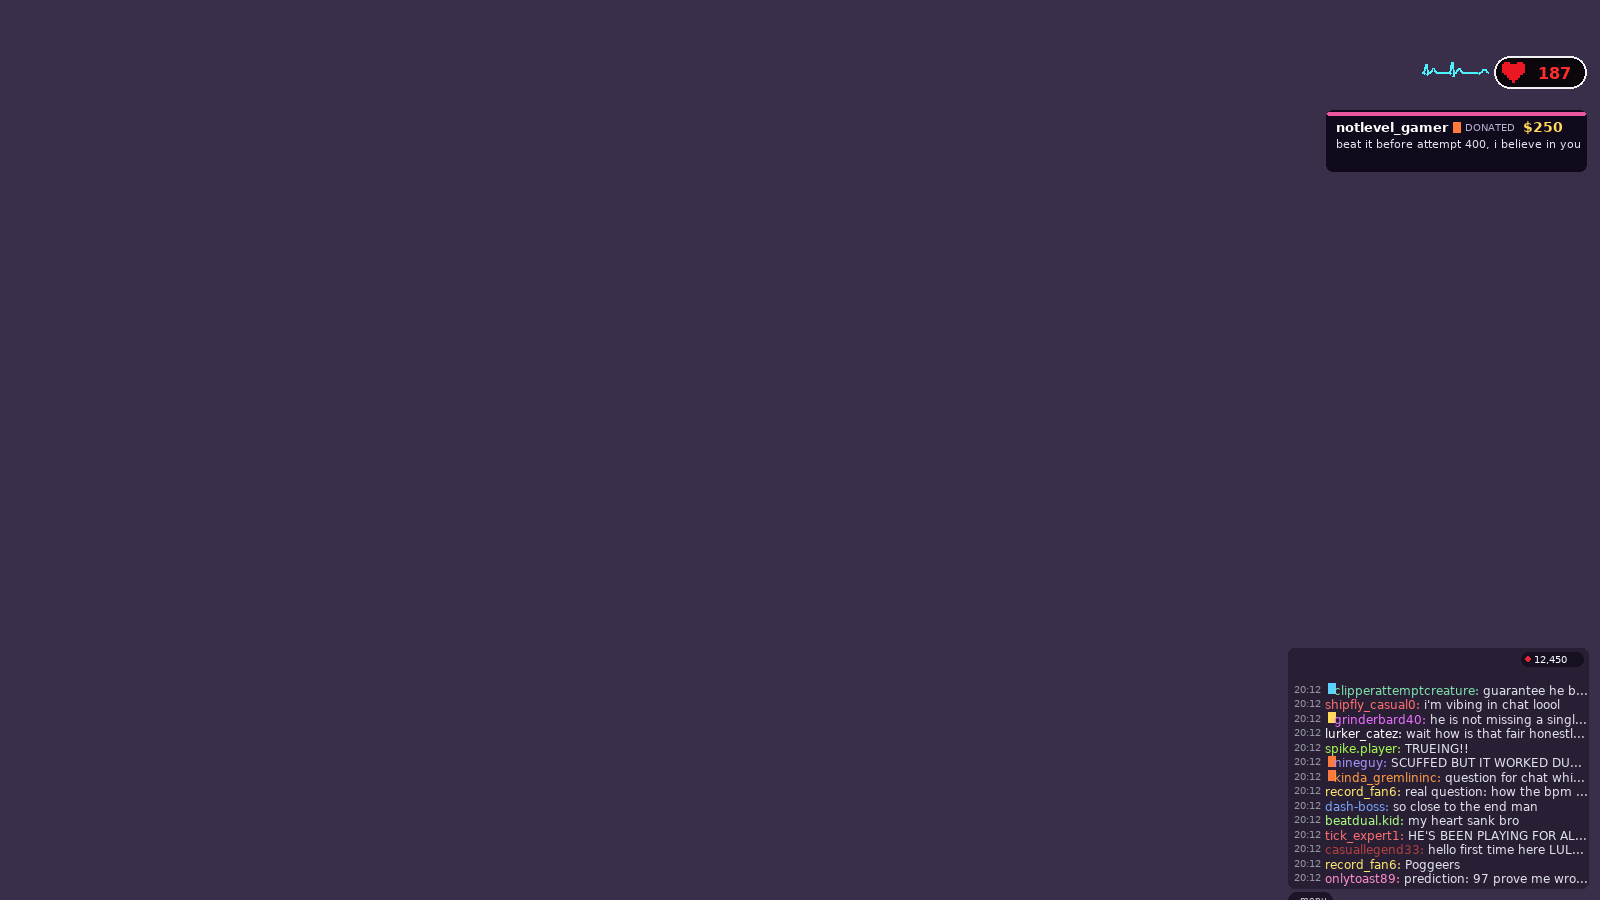
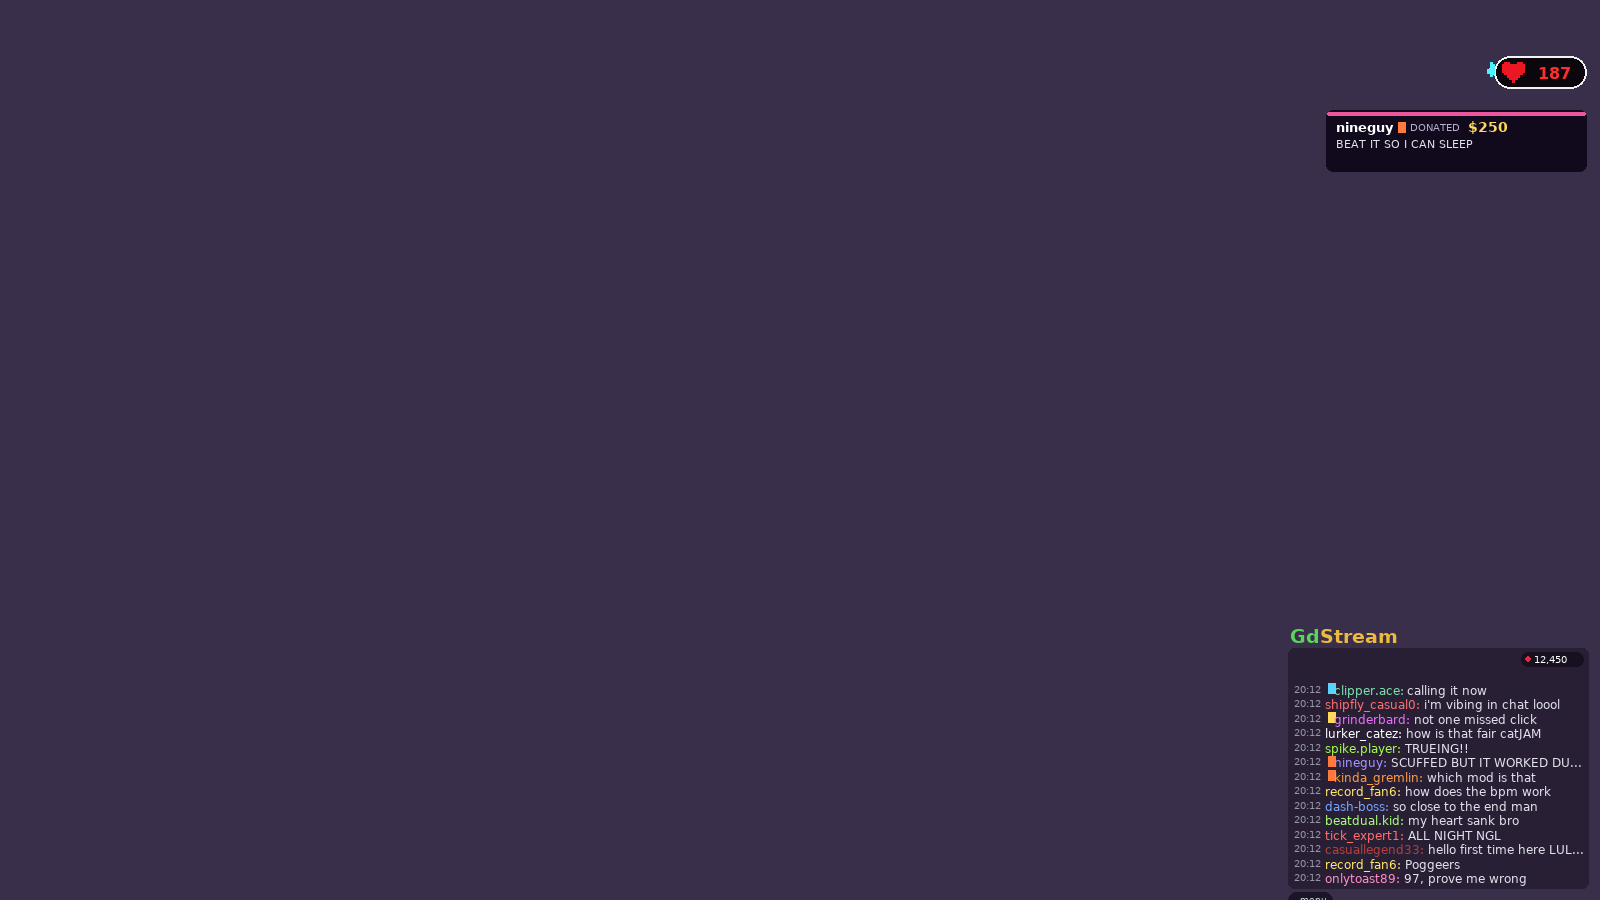
v3.3.5: the chat draws again (no stencil), and donations talk like a GD chat
- The row stack was inside a CCClippingNode. cocos2d-x draws a clipping
  node's stencil with the modelview matrix at identity, so a stencil built in
  the panel's local space cut at the bottom-left corner of the screen: every
  row was clipped away, which is why the panel showed nothing while the
  viewer pill (outside the clip) still drew. The clipping node is gone and
  overlong lines are truncated by measured width instead, which cannot fail
  that way.
- Donations: the wholesome register is gone. G_PUSH is now short and loud
  (GO / LOCK IN / MUGA / ABSOLUTE CINEMA / 97 / CLIP IT / I'M NOT BREATHING),
  the 'i believe in you' clauses are replaced, and half of all messages are
  upper-cased the way chat shouts.
- Every line that referenced the overlay, the chat panel, the bpm widget or
  anything being 'real' is deleted from both the chat and the donation pools.

diff --git a/src/stream_text.cpp b/src/stream_text.cpp
@@ -252,7 +252,6 @@ namespace streamui::text {
                 "what's your hardest", "what is your hardest demon",
                 "have you beaten bloodbath", "when's the next video",
                 "youtube upload when", "is there a vod",
-                "the chat overlay is clean", "how did you set up the overlay",
                 "what keyboard do you use", "mechanical keyboard asmr",
                 "i can hear every single click", "that clicking is satisfying",
                 "who's the mod in chat", "mods are asleep",
@@ -261,11 +260,7 @@ namespace streamui::text {
                 "attempt counter is at a scary number", "this attempt feels different",
                 "the level looks pretty", "the deco on this level goes hard",
                 "this part looks impossible", "that part is definitely impossible",
-                "the bar at the bottom is so satisfying", "i love the overlay",
-                "the layout is so clean today", "who made the overlay",
-                "is that a custom chat", "the colors on the chat are nice",
-                "my stream is nothing compared to this", "teach me how to edit like this",
-                "the thumbnail for this stream goes hard",
+                "the bar at the bottom is so satisfying", "that progress bar is crawling",
                 "i came from the youtube clip", "the clip brought me here",
                 "that clip of the 99 death is why i'm here",
             });
@@ -273,7 +268,7 @@ namespace streamui::text {
             cross(v, { "anyone know", "quick question,", "question for chat", "someone tell me" },
                 { " how the ship works", " how to get better at wave", " what the best level to start with is",
                     " how long this level is", " how many attempts that is", " what song this is",
-                    " what that counter is", " which mod does that", " what the bpm thing is" });
+                    " what that song is called", " which mod does that", " how many attempts he's on" });
 
             cross(v, { "i'm", "bro i'm", "honestly i'm", "not gonna lie i'm" },
                 { " so invested in this run", " nervous and i'm not even playing", " sweating watching this",
@@ -678,7 +673,6 @@ namespace streamui::text {
             putAll(fun, {
                 "do you think you'll die at 97 again?", "serious question: do you actually enjoy this level?",
                 "how do you still have hands after 3 hours?", "what's the plan if you never beat this",
-                "is the heart monitor real or are you just built like that",
                 "how many keyboards have you broken", "do you sleep or is that a myth",
                 "how do you not get angry, teach me", "what do you eat during a 6 hour session",
                 "be honest: how many attempts today",
@@ -703,26 +697,55 @@ namespace streamui::text {
                 { " stay this calm", " get this good at wave", " not break your keyboard",
                     " learn to straight fly", " start playing gd" });
 
+            // Donors in a GD chat are not a support group. They are the loudest people in the
+            // room: short, loud, certain, and taking the mickey. No "we believe in you" speeches.
             auto& push = b[G_PUSH];
             putAll(push, {
-                "you got this bro", "lock in, we believe", "i know you can do this",
-                "one day you'll look back at this and laugh",
-                "take a breath and run it back", "don't let the level win",
-                "you've come too far to stop now", "this is your level, finish it",
-                "chat is behind you 100%", "you're the most consistent player i watch",
-                "keep the same pace, it's working",
-                "your practice mode grind is going to pay off",
-                "every death is data, keep going",
-                "take a five minute break and come back stronger",
-                "you're so close, don't stop now", "we're all here with you",
-                "we believe in you", "you're going to get this today",
-                "this is the stream where it happens",
-                "you've already proven you can get there",
-                "just do what you did in practice mode",
-                "you're the reason i still watch gd streams",
-                "keep going king", "the grind will pay off, it always does",
-                "rest if you need, chat will wait",
-                "hydrate and lock back in", "stretch your hands and go again",
+                "$5 for the win, don't make me look stupid",
+                "GO GO GO GO GO", "LOCK IN", "LOCK IN CHAT", "CLUTCH IT", "DON'T CHOKE",
+                "TAKE IT HOME", "FINISH IT", "ONE MORE", "CLICK IT", "HOLD IT", "SEND IT",
+                "cooking. absolutely cooking", "he's cooking, everyone stay calm",
+                "BRO IS COOKING", "BRO IS LOCKED IN", "WE ARE SO BACK", "IT'S HAPPENING",
+                "ABSOLUTE CINEMA", "this is cinema", "no shot he chokes this",
+                "if you die here i'm refunding", "no pressure but everything is on this",
+                "i paid $20 to watch you click one block",
+                "do it for the clip", "clip it if he wins", "this is going in the compilation",
+                "don't you dare die at 99", "beat it so i can go to bed",
+                "i've bet my rent on this attempt", "my money is on the win, go",
+                "only donated to say GO", "donating every attempt until you win",
+                "go on then, prove the chat wrong",
+                "you've got one job", "it's one block. hit it",
+                "this attempt feels different, don't waste it",
+                "i'm not even watching, i'm just here for the reaction",
+                "send it chat, he needs the noise",
+                "all in on this run", "let's see it", "we're watching, do something",
+                "WAKE UP", "MUGA", "LETS GO CHAT", "CLEAN IT", "TAKE THE WIN",
+            });
+
+            // short and loud, the way people actually donate to a GD stream
+            putAll(b[G_PUSH], {
+                "GO GO GO GO GO GO", "NO WAY", "NO WAYYYY", "HOLY SHIT", "BRO IS COOKING",
+                "BRO IS ACTUALLY COOKING", "LOCK IN", "LOCK IN CHAT", "MUGA", "WE ARE SO BACK",
+                "WE ARE NEVER SO BACK", "ABSOLUTE CINEMA", "97", "97 AGAIN", "THE 97 CURSE",
+                "CLIP THAT", "CLIP IT", "DON'T CHOKE", "CHOKING INCOMING", "I CAN'T WATCH",
+                "I'M NOT BREATHING", "ONE CLICK", "ONE MORE", "PLEASE", "PLEASE GOD",
+                "FINISH IT", "SEND IT", "TAKE THE WIN", "HIT THE LAST BLOCK",
+                "IF YOU DIE HERE I'M DONE", "IF YOU WIN I'LL DONATE AGAIN",
+                "DO IT FOR THE COMPILATION", "BEAT IT SO I CAN SLEEP",
+                "I CAME HERE TO SEE A CHOKE", "PROVE ME WRONG", "PROVE CHAT WRONG",
+                "THAT'S THE RUN", "THAT'S THE ONE", "THIS IS THE ATTEMPT",
+                "LET'S GOOOOO", "LET'S GO CHAT", "WAKE UP CHAT", "STAY LOCKED IN",
+                "HE'S LOCKED IN", "HE'S COOKING", "KING", "WHAT A RUN",
+                "GOOD LUCK BRO", "GOOD LUCK", "WIN IT", "SMASH IT", "CLEAN IT",
+                "GG IF YOU WIN", "GG EITHER WAY", "I'M SHAKING", "MY HEART",
+                "DON'T THINK JUST CLICK", "TRUST YOUR HANDS", "SAME PACE",
+                "MOMENTUM", "KEEP THE RUN", "DON'T RESET", "PLAY IT OUT",
+                "SEND THE CLIP", "PUT IT ON YOUTUBE", "THIS IS CINEMA",
+                "BEST STREAM TODAY", "1 MORE ATTEMPT", "LAST ONE I PROMISE",
+                "OK NOW SERIOUSLY WIN", "GOOD LUCK ON THE LAST PART",
+                "NOT THE ENDING PLEASE", "THE ENDING IS CURSED",
+                "YOU HAD IT", "SO CLOSE", "PAIN", "ACTUAL PAIN",
+                "I FELT THAT", "THAT ONE HURT", "THAT WAS PERSONAL",
             });
 
             auto& pred = b[G_PREDICT];
@@ -804,18 +827,16 @@ namespace streamui::text {
                 "i'm downloading this level so i can hate it myself",
                 "the song in this level is so good",
                 "i've been here for 4 hours and i regret nothing",
-                "best stream on twitch right now, not even close",
-                "your overlay is cleaner than most big streamers",
-                "first time donating, love the stream",
-                "i've been watching since 20 viewers, insane growth",
-                "that heart rate thing is stressing me out more than you",
-                "the chat overlay makes this feel like a real event",
-                "this stream deserves 10x the viewers",
-                "i tell everyone about this stream",
-                "the highlight reel is going to be insane",
-                "your thumbnails are getting better every week",
-                "i came from the clip and i'm staying",
-                "this is the only stream i watch live",
+                "$10 says you die at 97 again",
+                "if you beat this i'll donate $50, and i know you won't",
+                "i'm only here for the choke and you keep not choking",
+                "donated so i can say i was here for the win",
+                "donated so i can say i was here for the choke, whichever",
+                "this is my fourth donation tonight, win something",
+                "i have donated more than you've gained percent",
+                "beat it and i'll stop donating. so don't.",
+                "5 dollars to tell you the ending is cursed",
+                "money is on 99. prove me wrong",
             });
         }
 
@@ -856,9 +877,8 @@ namespace streamui::text {
             static char const* ASK_HEADS[] = { "does anyone know ", "can someone tell me ", "seriously, ",
                 "real question: ", "chat, " };
             static char const* ASK_TAILS[] = { "how long this level is", "what his hardest is",
-                "how many attempts that was", "what the timer is counting", "if that's a real heart monitor",
-                "how the bpm thing works", "what the counter on the left is", "if he's ever beaten this",
-                "how many hours he's played today", "what the overlay is called", "if this is on youtube" };
+                "how many attempts that was", "what the timer is counting",
+                "how many hours he's played today", "which demon this is", "how far he's got before" };
             cross(b[C_NORMAL], ASK_HEADS, ASK_TAILS);
 
             static char const* SMALL_HEADS[] = { "hi ", "hey ", "hello ", "yo ", "morning ", "good luck " };
@@ -874,20 +894,20 @@ namespace streamui::text {
         }
 
         void buildClauseGifts(std::array<Lines, 16>& b) {
-            static char const* HEADS[] = { "i've been watching you for ", "i've been in this chat for ",
+            static char const* HEADS[] = { "i've been watching you die for ", "i've been in this chat for ",
                 "been here for ", "watching since " };
-            static char const* TAILS[] = { " three hours and this is the best stream i've seen",
-                " two months, you've improved so much", " the whole day, worth every minute",
-                " the beginning and this is unreal", " an hour and i'm fully invested",
-                " years, this community is special", " one stream and i already love it here" };
+            static char const* TAILS[] = { " three hours and you still can't do the last jump",
+                " two months and you're still at the same percent", " the whole day, absolute cinema",
+                " the beginning and you haven't improved once", " an hour and i've seen 40 deaths",
+                " years, the level always wins", " one stream and i already know how it ends" };
             cross(b[G_STREAM], HEADS, TAILS);
 
-            static char const* PUSH_HEADS[] = { "don't give up, ", "keep going, ", "you've got this, ",
-                "we believe in you, ", "take your time, " };
+            static char const* PUSH_HEADS[] = { "go on, ", "send it, ", "lock in, ", "clutch it, ", "one more, " };
             static char const* PUSH_TAILS[] = { "the level can't beat you forever",
-                "chat isn't going anywhere", "every attempt is progress",
-                "you're closer than you think", "the win is coming", "we'll be here when you get it",
-                "no rush, quality over speed", "we're all rooting for you" };
+                "chat is not going anywhere until you win", "every attempt is one closer to the choke",
+                "you're closer than you think and that's the problem", "the win is coming, probably",
+                "we'll be here when you die again", "no pressure, everything is on this",
+                "we're all screaming at you, in a nice way" };
             cross(b[G_PUSH], PUSH_HEADS, PUSH_TAILS);
 
             static char const* FUN_HEADS[] = { "honest question: ", "real question: ", "asking for a friend: ",
@@ -1097,19 +1117,19 @@ namespace streamui::text {
             for (int c = 0; c < G_COUNT; ++c) {
                 gbase[static_cast<size_t>(c)] = b[static_cast<size_t>(c)].size();
             }
-            expandFrom(b[G_PUSH], gbase[G_PUSH], { " you're going to get it", " chat is here for it",
+            expandFrom(b[G_PUSH], gbase[G_PUSH], { " do it for the clip", " and i mean it",
                 " keep the pace", " we believe", " after all this time", " no pressure" }, 3, 0);
             expandFrom(b[G_FUN], gbase[G_FUN], { "", " asking for a friend", " genuinely curious", " chat" }, 2, 1);
             expandFrom(b[G_JOKE], gbase[G_JOKE], { " and i stand by it", " not sorry", " honestly", " chat agrees" }, 2, 2);
             expandFrom(b[G_HIGH], gbase[G_HIGH], { " and i'm still not over it", " chat was unwell", " i needed a break" }, 2, 3);
             expandFrom(b[G_GD], gbase[G_GD], { " and that's a fact", " no notes", " respect", " trust me" }, 2, 4);
-            expandFrom(b[G_STREAM], gbase[G_STREAM], { "", " and i mean that", " best community on twitch" }, 2, 5);
+            expandFrom(b[G_STREAM], gbase[G_STREAM], { "", " and i mean that", " absolute cinema" }, 2, 5);
             expandFrom(b[G_PREDICT], gbase[G_PREDICT], { "", " prove me wrong", " i'll be here", " chat" }, 2, 6);
-            expandFrom(b[G_STREAM], gbase[G_STREAM], { " love this stream", " keep it up", " from a long time viewer" }, 1, 7);
+            expandFrom(b[G_STREAM], gbase[G_STREAM], { " unreal", " every time", " chat is right here" }, 1, 7);
             expandFrom(b[G_GD], gbase[G_GD], { " fact check me", " i said what i said", " gd 4 life" }, 1, 8);
             expandFrom(b[G_HIGH], gbase[G_HIGH], { " i'm not okay", " chat was not okay", " oh my god" }, 1, 9);
             expandFrom(b[G_JOKE], gbase[G_JOKE], { " and that's the truth", " sorry", " facts" }, 1, 10);
-            expandFrom(b[G_PUSH], gbase[G_PUSH], { " you've got this", " take your time", " we're not leaving" }, 1, 11);
+            expandFrom(b[G_PUSH], gbase[G_PUSH], { " GO", " now", " don't think about it" }, 1, 11);
             return finish(b, G_COUNT);
         }
 

diff --git a/src/stream.cpp b/src/stream.cpp
@@ -616,8 +616,7 @@ namespace streamui {
             CCNode* header = nullptr;             // optional "GdStream" wordmark above the panel
             CCLabelBMFont* headGd = nullptr;
             CCLabelBMFont* headStream = nullptr;
-            CCClippingNode* rowsHost = nullptr;   // clips the chat rows to the panel
-            CCDrawNode* rowStencil = nullptr;
+            CCNode* rowsHost = nullptr;   // parent of the row stack
             CCNode* chip = nullptr;        // small settings chip, shown while the menu is closed
             CCDrawNode* chipDraw = nullptr;
             std::function<void()> onChip = nullptr;
@@ -1031,13 +1030,12 @@ namespace streamui {
             // created here.
 
             // ---------------- chat rows ----------------
-            // One clipping node for the whole stack (not one per row: 110 stencils is a lot of
-            // state changes on a phone). A long message is cut at the glass edge instead of running
-            // off the panel and under the viewer pill.
-            O.rowStencil = CCDrawNode::create();
-            O.rowsHost = CCClippingNode::create(O.rowStencil);
-            O.rowsHost->setAlphaThreshold(0.01f);
-            O.chat->addChild(O.rowsHost, 1);
+            // No clipping node here on purpose. cocos2d-x draws a stencil with the modelview matrix
+            // loaded to identity, so a stencil built in the panel's local space ends up cutting at
+            // the bottom-left corner of the *screen*: every row got clipped away and the panel went
+            // blank. Rows are cut by measuring the text instead (see wrapLine), which cannot fail
+            // this way.
+            O.rowsHost = newNode(O.chat, 1);
             // 110 rows is more than a 900px panel can show at the smallest font, so a resize
             // never runs out
             O.rows.resize(110);
@@ -1290,11 +1288,6 @@ namespace streamui {
                 O.chip->setPosition({ x, y });
             }
 
-            if (O.rowsHost) {
-                O.rowsHost->setContentSize(r.size);
-                O.rowStencil->clear();
-                rectFill(O.rowStencil, { 0.f, 0.f, r.size.width, r.size.height }, { 1.f, 1.f, 1.f, 1.f });
-            }
             rewrapAll();
             relayoutRows();
         }
@@ -1430,6 +1423,29 @@ namespace streamui {
         }
 
         // wraps one line for the current panel width and caches the result on it
+        // cuts a string down until it fits maxW, appending "..." when anything was dropped
+        std::string truncateToWidth(std::string const& in, float maxW, float scale, char const* fnt) {
+            if (in.empty() || textW(in, scale, fnt) <= maxW) {
+                return in;
+            }
+            std::string cut = in;
+            for (int i = 0; i < 200 && !cut.empty(); ++i) {
+                size_t sp = cut.find_last_of(' ');
+                if (sp == std::string::npos || sp < 8) {
+                    break;
+                }
+                cut = cut.substr(0, sp);
+                if (textW(cut + "...", scale, fnt) <= maxW) {
+                    return cut + "...";
+                }
+            }
+            // one enormous word: cut characters instead
+            while (cut.size() > 4 && textW(cut + "...", scale, fnt) > maxW) {
+                cut.pop_back();
+            }
+            return cut + "...";
+        }
+
         void wrapLine(LineView& v, float panelWidth) {
             float scale = 0.62f;
             float x = 6.f;
@@ -1446,6 +1462,11 @@ namespace streamui {
             v.wrapped = wrapText(v.body, scale, "chatFont.fnt", avail, &linesH);
             if (v.wrapped.size() > 3) {
                 v.wrapped.resize(3);
+            }
+            // nothing may ever be wider than the space it has: the last line is cut if a single
+            // word ran past the edge, and the first line too when there is only one
+            for (auto& line : v.wrapped) {
+                line = truncateToWidth(line, avail, scale, "chatFont.fnt");
             }
             v.height = O.lineH * static_cast<float>(std::max<size_t>(v.wrapped.size(), 1)) + 1.f;
         }
@@ -1700,6 +1721,31 @@ namespace streamui {
             return static_cast<int>(std::clamp(v, 5.f, 1000.f));
         }
 
+        // A donation in a GD chat is loud shorthand, not a paragraph: it is upper-cased about half
+        // the time and short lines get the same shouty treatment chat does.
+        std::string giftVoice(std::string text, uint32_t& s) {
+            if (text.empty()) {
+                return text;
+            }
+            bool alreadyLoud = std::none_of(text.begin(), text.end(), [](char c) { return c >= 'a' && c <= 'z'; });
+            if (alreadyLoud) {
+                return text;
+            }
+            if (rndf(s) < 0.55f) {
+                for (auto& c : text) {
+                    c = static_cast<char>(std::toupper(static_cast<unsigned char>(c)));
+                }
+                return text;
+            }
+            if (text.size() < 26 && rndf(s) < 0.35f) {
+                size_t i = text.find_last_of("aeoAEO");
+                if (i != std::string::npos && text[i] >= 'a' && text[i] <= 'z') {
+                    text.insert(i + 1, std::string(2 + rnd32(s) % 3, text[i]));
+                }
+            }
+            return text;
+        }
+
         std::string pickGiftMessage(uint32_t& s, int amount) {
             // the user's own lines are used too, and get the same $P / $A / $N treatment
             if (!gCustomGifts.empty() && rndf(s) < 0.25f) {
@@ -1721,7 +1767,7 @@ namespace streamui {
             g.color = b ? paletteColor(b->color) : ccColor3B { 255, 255, 255 };
             g.badge = b ? b->badge : 0;
             g.amount = randomAmount(s);
-            g.message = fillRun(pickGiftMessage(s, g.amount));
+            g.message = giftVoice(fillRun(pickGiftMessage(s, g.amount)), s);
             g.t = 0.f;
             g.queued = false;
             O.activeGift = g;
@@ -2475,7 +2521,6 @@ namespace streamui {
         O.giftMsg[0] = O.giftMsg[1] = nullptr;
         O.giftFoot = nullptr;
         O.rowsHost = nullptr;
-        O.rowStencil = nullptr;
         O.header = nullptr;
         O.headGd = nullptr;
         O.headStream = nullptr;

diff --git a/README.md b/README.md
@@ -167,6 +167,7 @@ Practice use only; do not use for verified or leaderboard runs.
 - v3.1.0: the global brain's run comes first (over any macro you have; then your Macros folder, then Hyperbolus), the log says why there's no run for you (another TPS or another version of the level), and a Forget Macro button in the autoplay panel.
 - v3.2 (FrameWave): the mod is now called FrameWave (was Click Before Frames); the in-game watermark is a setting and off by default ("FrameWave | stage" in the bottom left when turned on, still hidden in practice mode); autoplay and updates no longer need the game linked to Discord (the link is only for the site's stats page).
 - v3.2.1: Black Hole UI (experimental, off by default): a whole-window theme with an accretion disk, photon ring, polar jet, orbiting stars and infalling sparks, smoked-glass panels and a violet halo.
+- v3.3.5: the chat actually draws again. Rows were wrapped in a clipping node, and cocos2d-x builds a stencil with an identity transform, so the panel-sized stencil cut at the bottom-left of the screen and removed every row. The clip is gone; long lines are truncated by measured width instead. Donations were rewritten in the same voice as a real GD chat (short, loud, upper-cased, taking the mickey) instead of wholesome pep talks, and every line that mentioned the overlay, the chat itself or anything being "real" was deleted.
 - v3.3.4: the title uses the real Geometry Dash typeface (PUSAB, shipped with the mod) with its own size control, the BPM trace is a third as thick with a width control, the chat can be scaled from 0.2x to 3x, beating a level walks the heart rate down to a calm rate over about twenty seconds, and the chat can no longer go blank (the short-line pool can only ever narrow the whole pool, and a once-a-second pass repaints any row whose labels came out empty).
 - v3.3.3: the BPM readout jumps in whole steps now (150 -> 155, never 151/152/153/154 on the way), the cyan trace is optional ("BPM Trace"), chat messages are picked from short lines when the panel is narrow so they stop being cut off, the viewer count drifts up and down continuously with a "Movement" control instead of sitting still, and there is an optional "GdStream" wordmark above the chat ("Gd" green, "Stream" gold, in the game's own font).
 - v3.3.2: the overlay is one sheet of glass now. The stray white hooks over the chat are gone (the rounded-rect border was sweeping two corners the wrong way), the header strip and its double frame are gone so the rows start at the top, the opacity setting actually leaves it see-through, long messages are cut at the panel edge instead of running off it, the BPM monitor sits under the progress bar instead of mid-screen, the donation card is as tall as its content, and the corner resize dots no longer draw. NEW: a "Menu Button" switch, for the small menu handle on the overlay.
